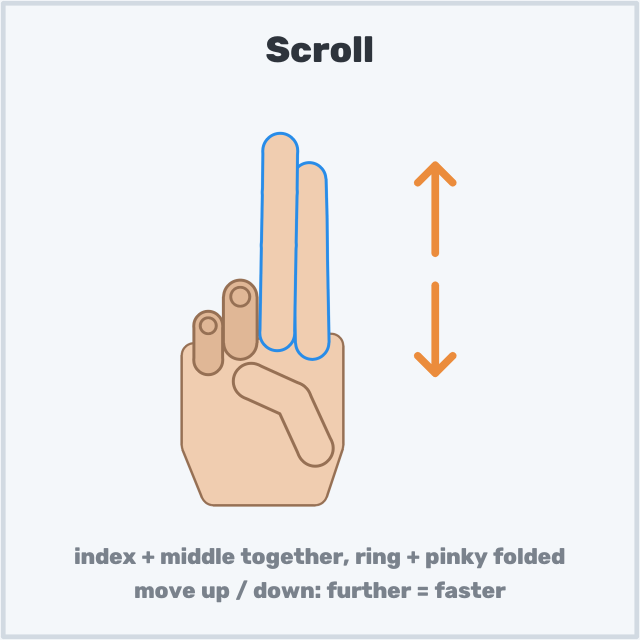
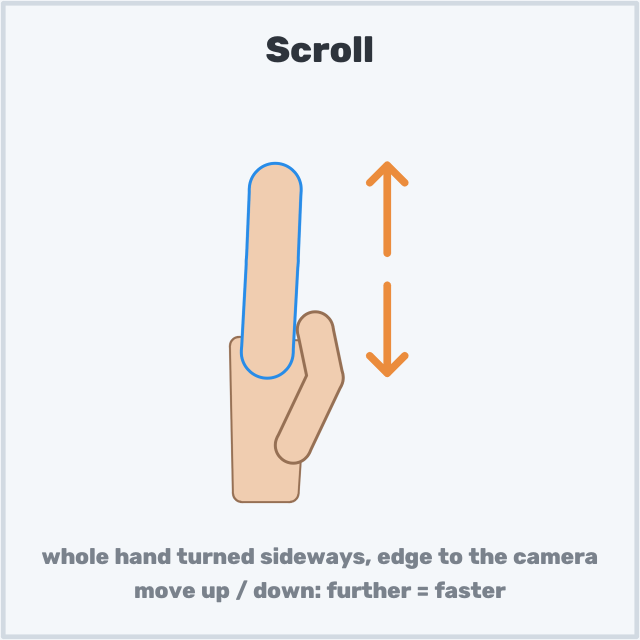
docs: scroll with the hand turned sideways
A new picture, the gesture tables, what's new, tuning rows for a scroll
that does not start or starts while pointing, and why the palm width.

Changed region(s): [[0.2812, 0.1875, 0.7188, 0.8125], [0.0625, 0.8438, 0.9375, 0.9062], [0.5625, 0.25, 0.7188, 0.4062]]

diff --git a/docs/make_gesture_images.py b/docs/make_gesture_images.py
@@ -229,6 +229,34 @@ def arc(
     cv2.arrowedLine(c.img, pts[-4], pts[-1], MOVE, 7 * SS, cv2.LINE_AA, tipLength=1.2)
 
 
+def capsule(
+    c: Canvas,
+    pts: list[Point],
+    width: float,
+    fill: tuple[int, int, int],
+    line: tuple[int, int, int],
+) -> None:
+    """A rounded limb through ``pts``: outline first, then the fill."""
+    for colour, extra in ((line, 6 * SS), (fill, 0)):
+        px = [c.px(p) for p in pts]
+        t = c.r(width) + extra
+        for p0, p1 in itertools.pairwise(px):
+            cv2.line(c.img, p0, p1, colour, t, cv2.LINE_AA)
+        for p in px:
+            cv2.circle(c.img, p, t // 2, colour, -1, cv2.LINE_AA)
+
+
+def sideways(c: Canvas) -> None:
+    """The open hand seen from the side (its edge to the camera): palm and fingers stacked."""
+    palm = np.array([c.px(p) for p in ((-0.16, 0.0), (0.14, 0.0), (0.2, 0.9), (-0.18, 0.92))])
+    cv2.fillPoly(c.img, [palm.astype(np.int32)], SKIN_LINE, cv2.LINE_AA)
+    cv2.polylines(c.img, [palm.astype(np.int32)], True, SKIN_LINE, c.r(0.12), cv2.LINE_AA)
+    cv2.fillPoly(c.img, [palm.astype(np.int32)], SKIN, cv2.LINE_AA)
+    cv2.polylines(c.img, [palm.astype(np.int32)], True, SKIN, c.r(0.09), cv2.LINE_AA)
+    capsule(c, [(0.0, 0.88), (0.03, 1.45), (0.05, 1.9)], 0.3, SKIN, ACTIVE)  # the stacked fingers
+    capsule(c, [(0.16, 0.3), (0.36, 0.72), (0.3, 1.02)], 0.2, SKIN, SKIN_LINE)  # the thumb
+
+
 def lens(c: Canvas, centre: Point) -> None:
     """A magnifying glass."""
     x, y = c.px(centre)
@@ -343,15 +371,13 @@ def build() -> dict[str, Any]:
 
     def scroll() -> Canvas:
         c = Canvas()
-        h = Hand().up("index", -1).up("middle", 1).curl("ring").curl("pinky").thumb_tuck()
-        h.active |= {"index", "middle"}
-        h.draw(c)
-        arrow(c, (1.05, 1.5), (1.05, 2.05))
-        arrow(c, (1.05, 1.3), (1.05, 0.75))
+        sideways(c)
+        arrow(c, (0.75, 1.5), (0.75, 2.05))
+        arrow(c, (0.75, 1.3), (0.75, 0.75))
         caption(
             c,
             "Scroll",
-            "index + middle together, ring + pinky folded",
+            "whole hand turned sideways, edge to the camera",
             "move up / down: further = faster",
         )
         return c

diff --git a/README.md b/README.md
@@ -30,6 +30,9 @@ Runs on Windows, Linux (X11) and macOS; see [Limitations](#limitations).
 The latest changes, newest first. Each one came from testing with real users, or from a
 problem found while measuring.
 
+- **Scroll with the whole hand:** turn the hand sideways, edge to the camera, and move it up or
+  down. Scroll used to be index + middle together, and the precision V kept turning into it;
+  two fingers are now always precision.
 - **A click stays a click:** the drag starts only when the hand clearly moves (~3 cm), never
   because the pinch lasted long, and it starts from where the button went down. Before, every
   pinch longer than 0.25 s or a 40-pixel drift (closing the fingers moves the knuckles that
@@ -65,11 +68,11 @@ problem found while measuring.
 | Hand mouse | thumb + index touching | left button (click, or drag while held) |
 | Hand mouse | two quick pinches | double click |
 | Hand mouse | thumb + middle | right click |
-| Hand mouse | index + middle together, move up / down | scroll |
+| Hand mouse | whole hand turned sideways (edge to the camera), move up / down | scroll |
 | Hand mouse | horns (index + pinky), move up / down | zoom in / out |
 | Hand mouse, `--slides` | both hands pinched, pull apart / together | zoom in / out |
 | Hand mouse | pinky folded | cursor at 50% |
-| Hand mouse | V (index + middle out) | cursor at 25% + magnifier |
+| Hand mouse | V or index + middle together (ring + pinky folded) | cursor at 25% + magnifier |
 | Hand mouse | open hand flicked sideways and back | previous / next slide |
 | Hand mouse | fist | pause (clutch) |
 | Hand mouse | shaka held 0.6 s | mouse ↔ media mode |
@@ -151,7 +154,7 @@ released.
 
 <table>
 <tr><td align="center"><img src="docs/gestures/hand_move.png" width="210" alt="Move the cursor: open hand"></td><td align="center"><img src="docs/gestures/hand_left_button.png" width="210" alt="Left button: thumb and index touching"></td><td align="center"><img src="docs/gestures/hand_drag.png" width="210" alt="Drag: keep touching and move"></td></tr>
-<tr><td align="center"><img src="docs/gestures/hand_double_click.png" width="210" alt="Double click: pinch twice"></td><td align="center"><img src="docs/gestures/hand_right_click.png" width="210" alt="Right click: thumb and middle finger touching"></td><td align="center"><img src="docs/gestures/hand_scroll.png" width="210" alt="Scroll: index and middle together, move up or down"></td></tr>
+<tr><td align="center"><img src="docs/gestures/hand_double_click.png" width="210" alt="Double click: pinch twice"></td><td align="center"><img src="docs/gestures/hand_right_click.png" width="210" alt="Right click: thumb and middle finger touching"></td><td align="center"><img src="docs/gestures/hand_scroll.png" width="210" alt="Scroll: the whole hand turned sideways, move up or down"></td></tr>
 <tr><td align="center"><img src="docs/gestures/hand_zoom.png" width="210" alt="Zoom: horns, move up or down"></td><td align="center"><img src="docs/gestures/hand_clutch.png" width="210" alt="Pause: fist"></td><td align="center"><img src="docs/gestures/hand_flick.png" width="210" alt="Flick sideways and back: previous or next slide"></td></tr>
 <tr><td align="center"><img src="docs/gestures/hand_slower.png" width="210" alt="Slower cursor: fold the pinky"></td><td align="center"><img src="docs/gestures/hand_precision.png" width="210" alt="Precision and magnifier: V sign"></td><td align="center"><img src="docs/gestures/hand_two_zoom.png" width="210" alt="Zoom with two hands: pinch both and pull apart"></td></tr>
 </table>
@@ -165,11 +168,11 @@ released.
 | Double click | two quick pinches | the cursor waits 0.35 s after a click, so both land on the same pixel |
 | Right click | **thumb + middle** | one click per pinch + 0.4 s cooldown |
 | Previous / next slide | **flick** the open hand left / right **and straight back** | Left / Right arrow; the cursor ends where it was |
-| Scroll | **index + middle** extended and together, ring + pinky curled; move the hand up/down/sideways | works like a joystick: distance from the starting point sets the *speed*; dead zone |
+| Scroll | **the whole hand turned sideways**, its edge to the camera (like a karate chop); move it up / down / sideways | works like a joystick: distance from the starting point sets the *speed*; dead zone. A fist turned sideways is still a fist |
 | Zoom | "horns": **index + pinky** up, middle + ring curled; then move the hand **up** (zoom in) or **down** (zoom out) | Ctrl + wheel, one step per ~2 cm of travel, one step per frame at most; the thumb is free |
 | Zoom with two hands | **pinch both hands**, then pull them **apart** (zoom in) or **together** (zoom out) | like two fingers on a touchpad; one step per 12% change of the distance; while the other hand pinches, the cursor holds still and nothing clicks |
 | Slower cursor | **fold the pinky** (index, middle, ring out) | half speed: for small targets |
-| Precision + magnifier | **V**: index + middle out, ring + pinky folded | quarter speed, and the system magnifier comes on; open the hand again and it goes off |
+| Precision + magnifier | **V**: index + middle out (apart or together), ring + pinky folded | quarter speed, and the system magnifier comes on; open the hand again and it goes off |
 | Clutch | **fist** | `absolute`: pauses output; `--relative`: "lifts the mouse" |
 
 - **The left button is held like a real one.** It goes down the moment thumb and index meet and
@@ -459,6 +462,8 @@ parameters are in `config.py`.
 | **Hand mouse:** slides change while pointing or talking | `flick_distance` ↑, `flick_speed` ↑, or `flick_slides = False` |
 | **Hand mouse:** cursor stops when the thumb rests near a finger | `approach_freeze` ↓ (0 disables freezing) |
 | **Hand mouse:** scroll too fast / too slow | `scroll_gain`, `scroll_deadzone`, `scroll_max_rate` |
+| **Hand mouse:** scroll does not start | turn the hand further, until the knuckles line up (the HUD shows `palm width`; below 0.25 scrolls); or `scroll_palm_enter` ↑ (e.g. 0.3) |
+| **Hand mouse:** scroll starts while pointing | keep the palm or the back of the hand towards the camera; `scroll_palm_enter` ↓ (e.g. 0.2) |
 | **Hands:** the hand is not found from far away | come closer, or more light; `TrackerConfig.zoom_crop` (smaller = more magnified, narrower) |
 | **Slides:** swipes are not recognised | does the HUD say "open hand"? Then `SlidesConfig.swipe_speed` ↓ (e.g. 3), `swipe_distance` ↓ (e.g. 0.8) |
 | **Slides:** slides change while you talk | `swipe_speed` ↑ (e.g. 6), `swipe_distance` ↑ (e.g. 1.5), `min_fingers = 4` |
@@ -619,6 +624,12 @@ tested without a camera and a display:
   cursor (it would receive the clicks). The system magnifier follows the mouse, handles
   multiple monitors and DPI, and is reached through its keyboard shortcut. The program
   remembers whether it turned it on, and turns it off on exit.
+- **Scroll is the hand turned sideways, measured by the palm's width.** The distance between the
+  index and pinky knuckles in the image, over the palm length, is 0.62–1.12 on real hands
+  facing the camera (0.38 for one pinching hand) and about 0.1–0.25 edge on; it does not
+  depend on how far the hand is or how it is tilted in the image. Scroll starts below 0.25
+  and ends above 0.35. The first scroll pose, index + middle together, differed from the
+  precision V only by the gap between two fingertips, so the two kept swapping.
 - **The second hand only when it pinches.** The first version switched to two-hand mode as soon
   as two hands were in view. On the slides test video a woman holds one hand on her forehead,
   and no swipe worked any more. Now the second hand counts only while it pinches; while one is
